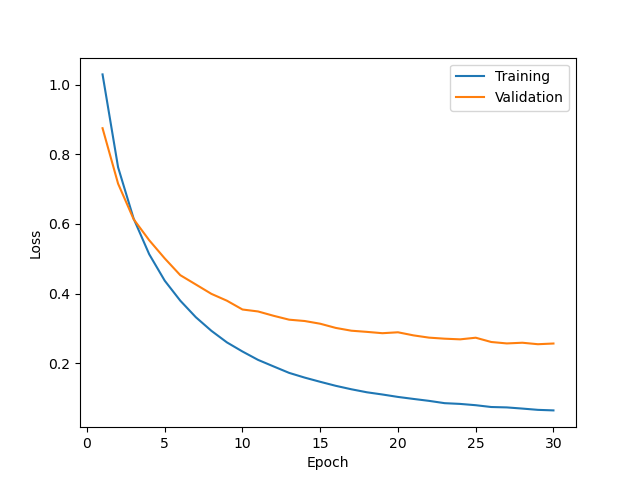
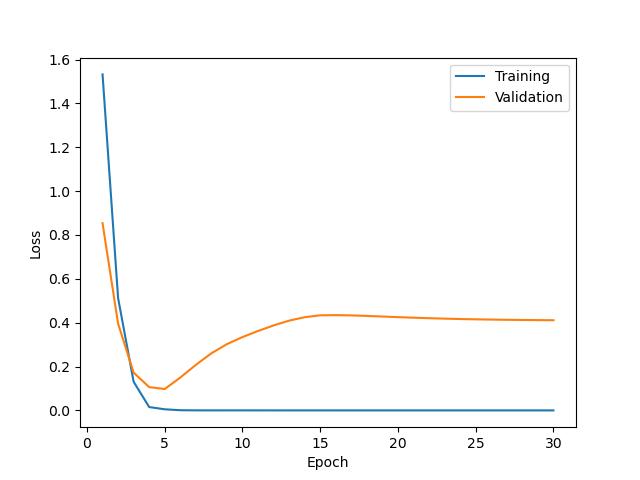
Added attention mechanism

diff --git a/training_testing.py b/training_testing.py
@@ -14,7 +14,7 @@ class Encoder(nn.Module):
         super(Encoder, self).__init__()
 
         self.embedding = nn.Embedding(input_size, embedding_size)
-        self.lstm = nn.LSTM(embedding_size, hidden_size, num_layers, batch_first=True, bidirectional=True)
+        self.lstm = nn.LSTM(embedding_size, hidden_size, num_layers, bidirectional=True)
 
         self.fc_hidden = nn.Linear(hidden_size * 2, hidden_size)
         self.fc_cell = nn.Linear(hidden_size * 2, hidden_size)
@@ -55,10 +55,10 @@ class Decoder(nn.Module):
         self.relu = nn.ReLU()
 
     def forward(self, x, encoder_states, hidden, cell, device):
+        x = torch.tensor([x for _ in range(hidden.shape[1])], dtype=torch.int64).to(device)
+
         # x shape: (batch_size), needs to be (1, batch_size).
         # seq_length is 1 here because a single word is sent in and not a sentence
-        # !!!remove? x = torch.tensor([x for _ in range(hidden.shape[1])], dtype=torch.int64).to(device)
-
         x = x.unsqueeze(0)
         # x: (1, batch_size)
 
@@ -73,28 +73,20 @@ class Decoder(nn.Module):
         # energy: (seq_length, batch_size, 1)
 
         attention = self.softmax(energy)
-        # attention: (seq_length, batch_size, 1)
 
-        attention = attention.permute(1, 2, 0)
-        # attention shape: (batch_size, 1, seq_length)
-
-        encoder_states = encoder_states.permute(1, 0, 2)
-        # encoder_states shape: (batch_size, seq_length, hidden_size*2)
-
-        # (batch_size, 1, hidden_size*2) --> (1, batch_size, hidden_size*2)
-        context_vector = torch.bmm(attention, encoder_states).permute(1, 0, 2)
+        # attention: (seq_length, batch_size, 1), snk
+        # encoder_states: (seq_length, batch_size, hidden_size*2), snl
+        # we want context_vector: (1, batch_size, hidden_size*2), i.e knl
+        context_vector = torch.einsum("snk,snl->knl", attention, encoder_states)
 
         lstm_input = torch.cat((context_vector, embedding), dim=2)
+        # lstm_input: (1, batch_size, hidden_size*2 + embedding_size)
 
         outputs, (hidden, cell) = self.lstm(lstm_input, (hidden, cell))
         # outputs shape: (1, batch_size, hidden_size)
 
-        predictions = self.fc(outputs)
-
-        # predictions shape: (1, batch_size, length_target_vocabulary). To send it to the
-        # loss function it needs to be (batch_size, length_target_vocabulary) so the first
-        # dim is going to be erased
-        predictions = predictions.squeeze(0)
+        predictions = self.fc(outputs).squeeze(0)
+        # predictions: (batch_size, hidden_size)
 
         return predictions, hidden, cell
 
@@ -108,7 +100,7 @@ class Seq2Seq(nn.Module):
         self.decoder = decoder
 
     def forward(self, source, target, semi_supervised, teacher_force_ratio=config.TEACHER_FORCE_RATIO):
-        batch_size = source.shape[0]
+        batch_size = source.shape[1]
         target_len = config.TARGET_LEN
 
         if semi_supervised == config.SEMI_SUPERVISED_PHASE_1:
@@ -156,6 +148,20 @@ def reshape_output_and_y(output, y):
     return output, y
 
 
+def get_x_y(semi_supervised, sample, device):
+    if semi_supervised == config.SEMI_SUPERVISED_PHASE_1:
+        x, y = sample['10 words'].to(device), sample['eleventh word'].to(device),
+    else:
+        x, y = sample['10 words'].to(device), sample['category'].to(device)
+
+    # Swapping dimensions of x to make it's shape correct for the LSTM without batch_first=True,
+    # which expects an input of shape (seq_length, batch_size, hidden_size)
+    x = x.transpose(1, 0)
+    # x shape: (seq_length, batch_size)
+
+    return x, y
+
+
 def train(train_len, optimizer, model, criterion, epoch_loss, device, dataloaders, semi_supervised=0):
     # Train the model
 
@@ -167,10 +173,7 @@ def train(train_len, optimizer, model, criterion, epoch_loss, device, dataloader
     for sample in data:
         optimizer.zero_grad()
 
-        if semi_supervised == config.SEMI_SUPERVISED_PHASE_1:
-            y, x = sample['eleventh word'].to(device), sample['10 words'].to(device)
-        else:
-            y, x = sample['category'].to(device), sample['10 words'].to(device)
+        x, y = get_x_y(semi_supervised, sample, device)
 
         output = model(x, y, semi_supervised)
 
@@ -200,10 +203,7 @@ def test(dataloader, data_len, batch_size, criterion, model, device, epoch_loss=
 
     for sample in dataloader:
 
-        if semi_supervised == config.SEMI_SUPERVISED_PHASE_1:
-            y, x = sample['eleventh word'].to(device), sample['10 words'].to(device)
-        else:
-            y, x = sample['category'].to(device), sample['10 words'].to(device)
+        x, y = get_x_y(semi_supervised, sample, device)
 
         with torch.no_grad():
             output = model(x, y, semi_supervised)
@@ -259,8 +259,8 @@ def run(device, dataset_sizes, dataloaders, num_classes, semi_supervised, num_ep
 
         model = Seq2Seq(encoder_net, decoder_net, device).to(device)
 
-    criterion = torch.nn.CrossEntropyLoss().to(device)
-    optimizer = torch.optim.Adam(model.parameters())
+    criterion = torch.nn.CrossEntropyLoss(ignore_index=config.PAD_IDX).to(device)
+    optimizer = torch.optim.Adam(model.parameters(), lr=config.LEARNING_RATE)
 
     train_len = dataset_sizes[config.FILE_TRAINING]
 

diff --git a/config.py b/config.py
@@ -27,8 +27,9 @@ BATCH_SIZE = 512
 N_FEATURES = 10
 HIDDEN_DIM = 512
 NUM_LAYERS = 1
-ENC_DROPOUT = 0.5
-DEC_DROPOUT = 0.5
+ENC_DROPOUT = 0.0
+DEC_DROPOUT = 0.0
+LEARNING_RATE = 0.001
 TEACHER_FORCE_RATIO = 0.5
 
 NUM_WORKERS = 0  # TODO: Fix bug where NUM_WORKERS >= 4 leads to WinError 1455
@@ -36,12 +37,13 @@ NUM_WORKERS = 0  # TODO: Fix bug where NUM_WORKERS >= 4 leads to WinError 1455
 # Needed when using an encoder-decoder model,
 # because the first 'word' input token to the decoder needs to be an sos (start of sequence) token
 SOS_TOKEN = None
+PAD_IDX = 0
 
 TARGET_LEN = 1
 
 # Supervised (input: 10 words, output: category)
 SUPERVISED_NUM_CLASSES = len(categories)
-SUPERVISED_N_EPOCHS = 30
+SUPERVISED_N_EPOCHS = 0
 
 # Semi-supervised phase 1 (input: 10 words, output: 11th word)
 SEMI_SUPERVISED_PHASE_1_N_EPOCHS = 30
